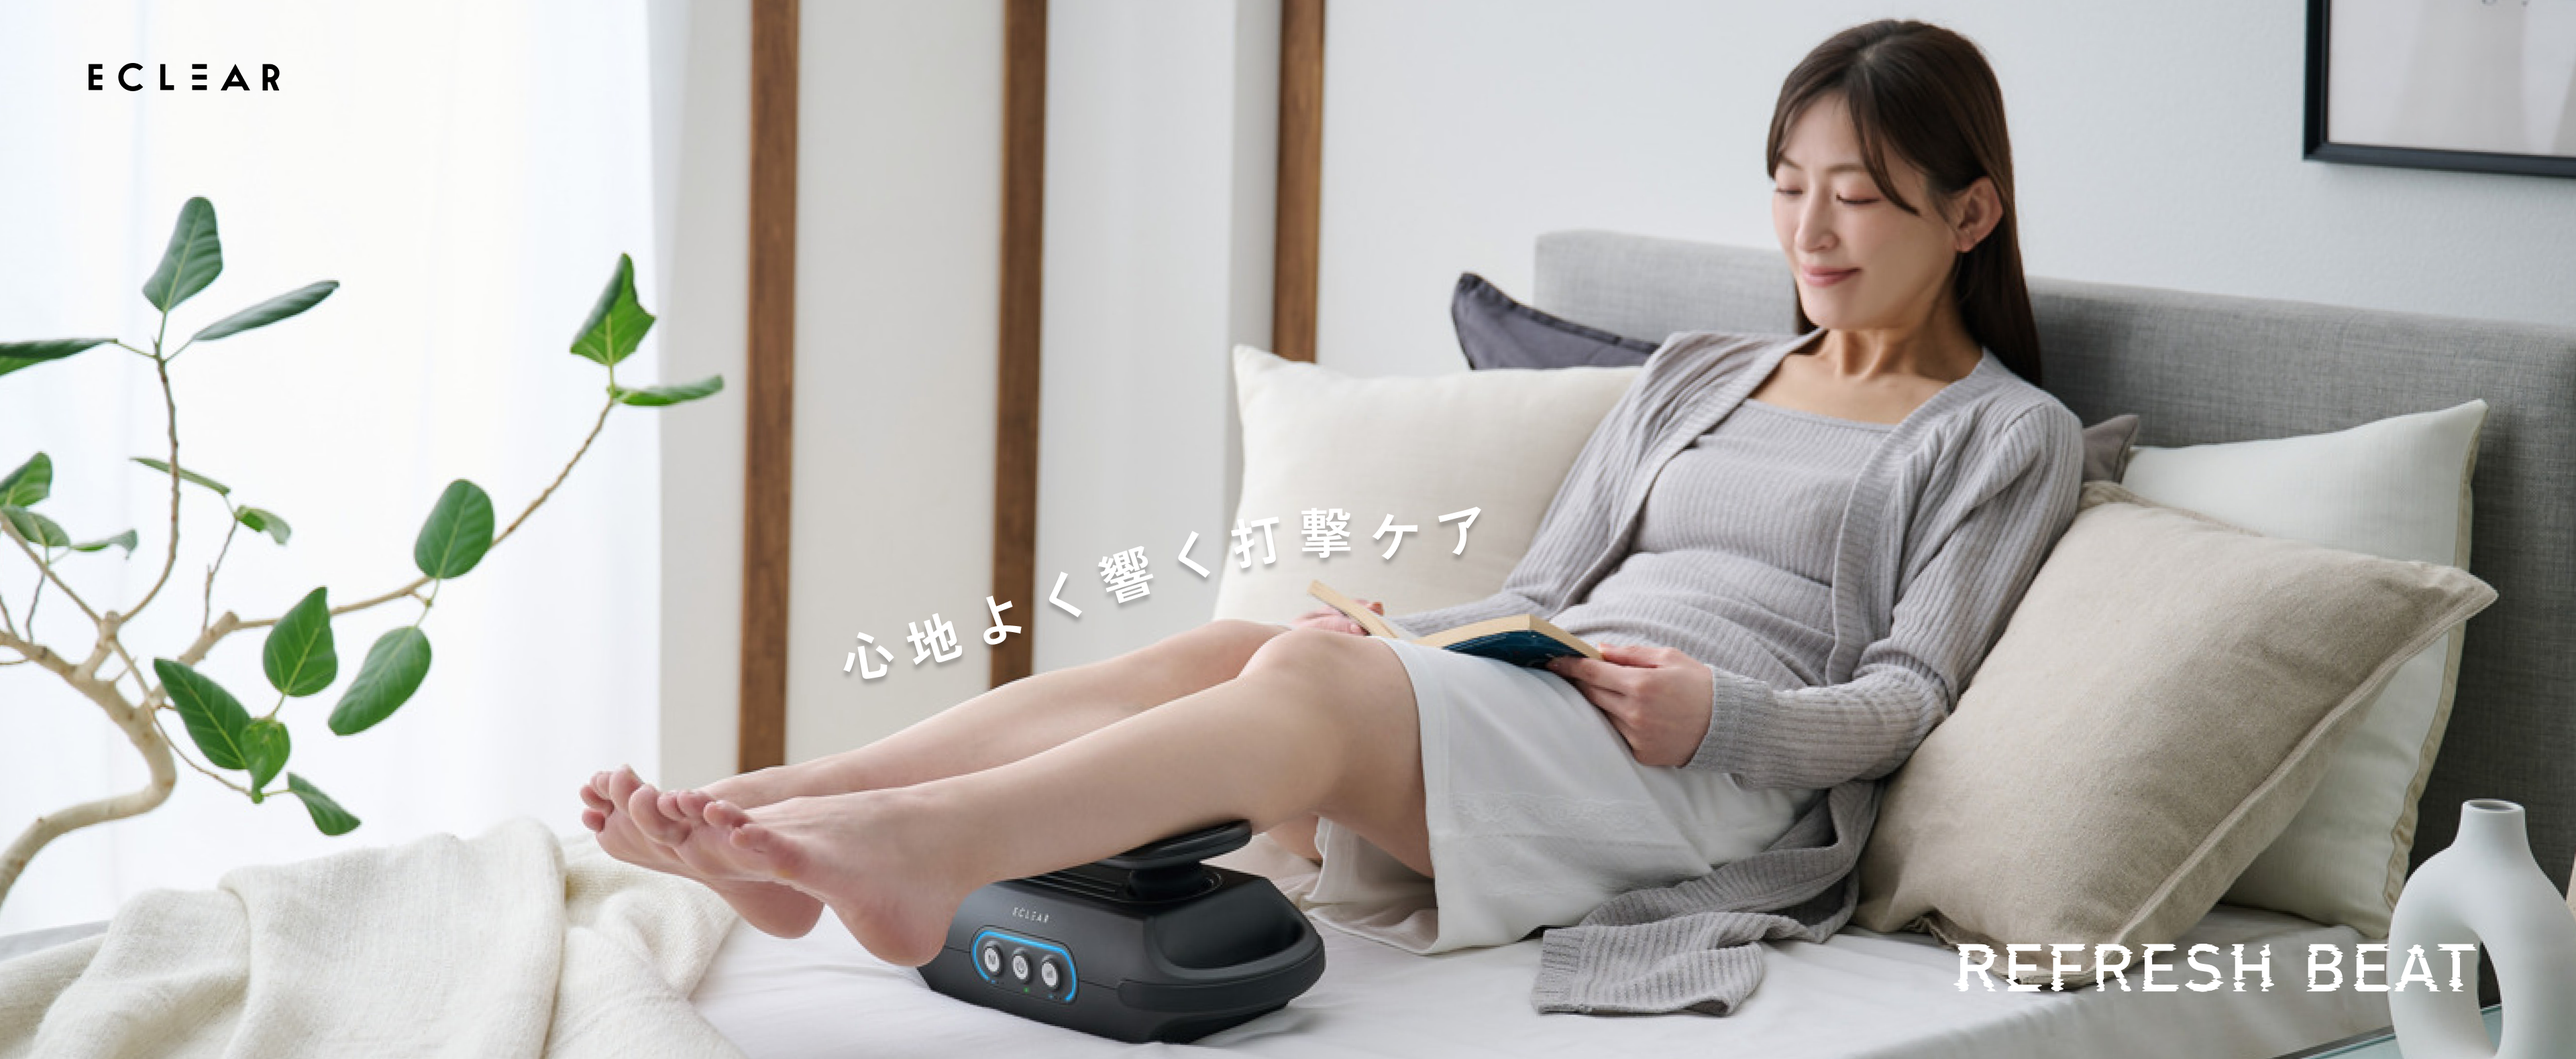
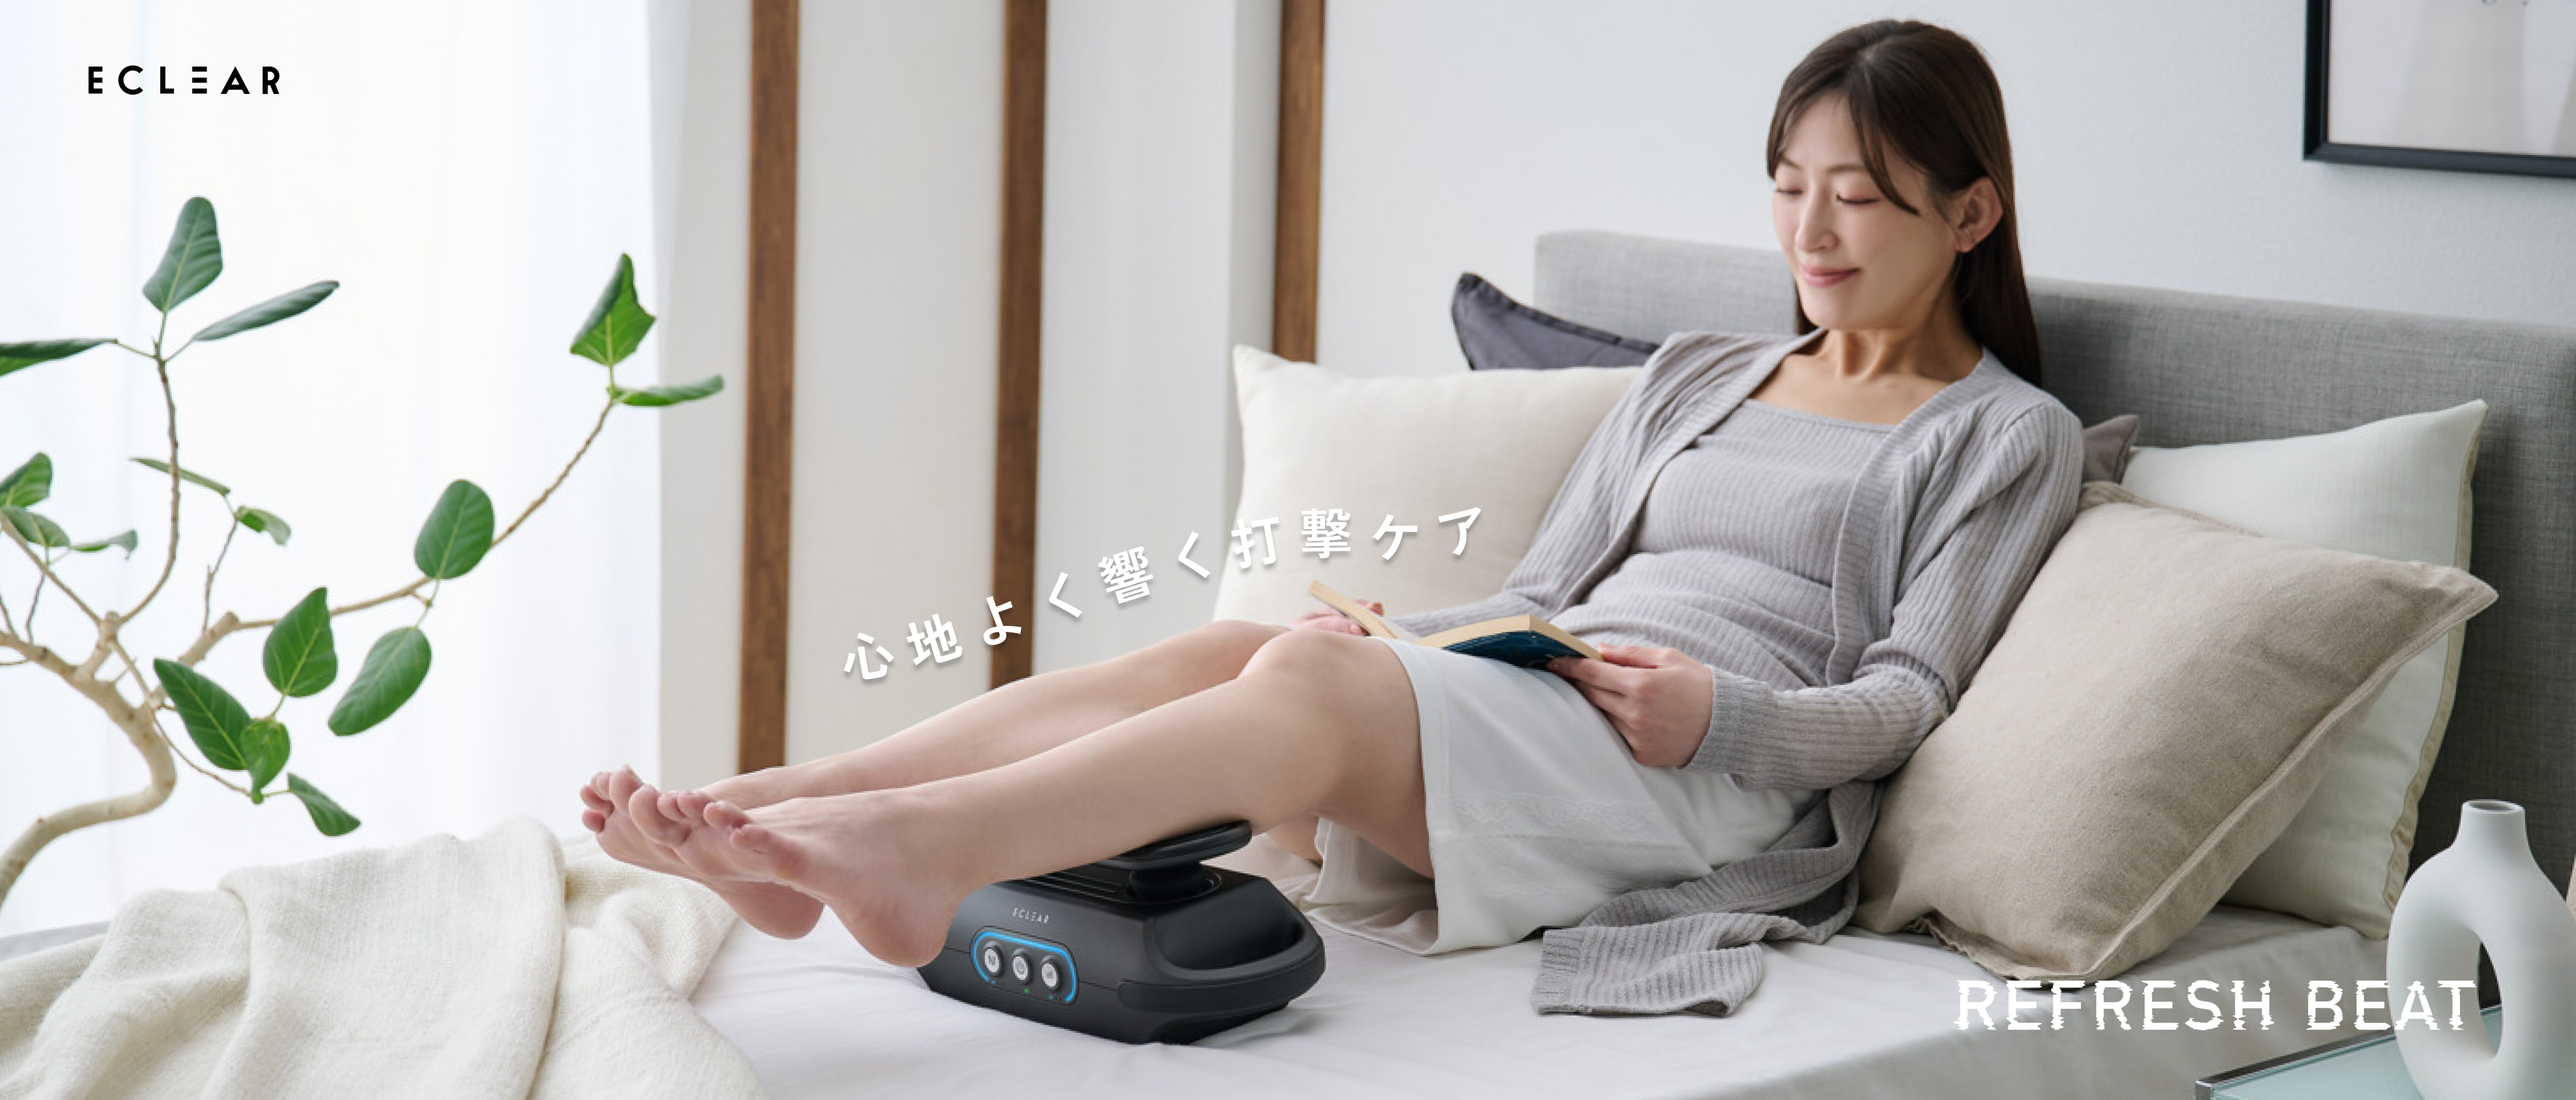
FV画像サイズ調整

diff --git a/assets/css/style.css b/assets/css/style.css
@@ -90,7 +90,7 @@ a {
   max-width: 100vw;
   overflow: hidden;
   background-color: var(--white);
-  aspect-ratio: 1920 / 790;
+  aspect-ratio: 1920 / 820;
   padding-bottom: 310px;
   margin: 0;
 }
